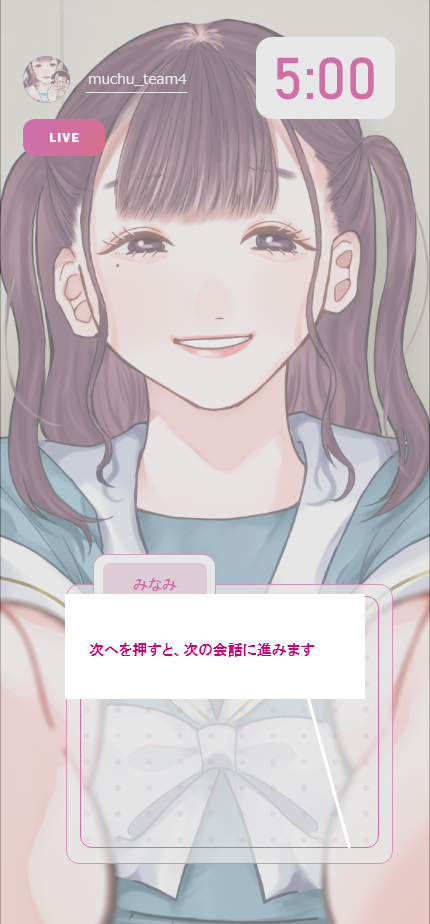
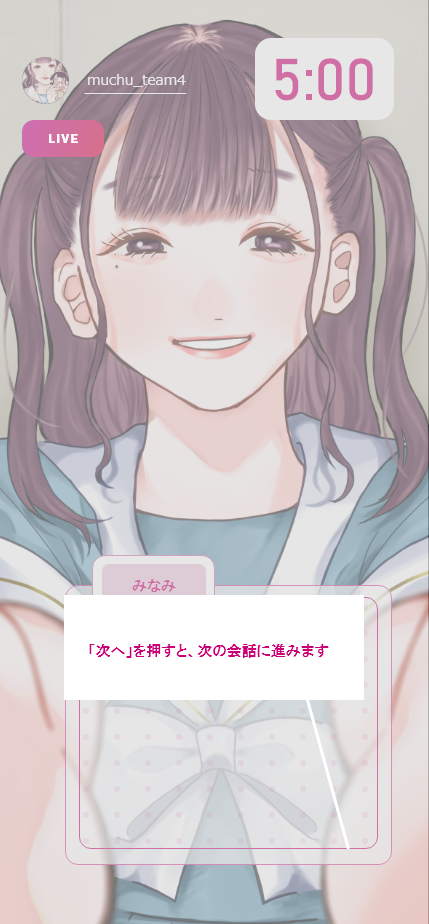
ルール説明など変更

diff --git a/quiz2.css b/quiz2.css
@@ -1,5 +1,5 @@
 body{
-    background-image: url('img/quiz2.png');
+    background-image: url('img/game2.png');
     background-repeat: no-repeat;
     max-width: 100%;
     height: auto;
@@ -24,8 +24,8 @@ html {
 
 p#default{
     position:relative;
-		top: -23px;
-		left:278px;
+		top: 0px;
+		left:270px;
     color:#CC0076;
     font-size: 50px;
     font-family: Arial;
@@ -34,7 +34,7 @@ p#default{
 
 div#quest{
     position:relative;
-		top: 320px;
+		top: 150px;
 		left:50px;
     font-size: 14px;
     width:310px;
@@ -43,27 +43,25 @@ div#quest{
 
 div#groupname{
     position:relative;
-		top: 90px;
+		top: 275px;
 		left:50px;
     font-size: 14px;
     width:310px;
-    height: 20px;
-    background-color: rgba(232, 43, 179, 0.6);
-    color: #ffffff;
+    height: 90px;
     font-weight: bolder;
 }
 
 div#groupname2{
     position:relative;
-		top: 90px;
+		top: 205px;
+		left:50px;
 		left:50px;
     font-size: 14px;
     width:310px;
-    height: 40px;
-    background-color: rgba(232, 43, 179, 0.6);
-    color: #ffffff;
+    height: 90px;
     font-weight: bolder;
 }
+
 .parent {
   /*親要素はrelativeに*/
   position: relative;
@@ -126,7 +124,7 @@ div#sentaku4{
 }
 .example1 label{
     position:absolute;
-    top: 270px;
+    top: 150px;
 		left:18px;
     display: block;
     background: #eac3dc;
@@ -154,7 +152,7 @@ div#sentaku4{
 }
 .example2 label{
     position:absolute;
-    top: 270px;
+    top: 150px;
 		left:205px;
     display: block;
     background: #eac3dc;
@@ -182,7 +180,7 @@ div#sentaku4{
 }
 .example3 label{
     position:absolute;
-    top: 375px;
+    top: 275px;
 		left:18px;
     display: block;
     background: #eac3dc;
@@ -210,7 +208,7 @@ div#sentaku4{
 }
 .example4 label{
     position:absolute;
-		top: 375px;
+		top: 275px;
 		left:205px;
     display: block;
     background: #eac3dc;
@@ -239,7 +237,7 @@ div#sentaku4{
 #nextbutton{
   position:absolute;
   text-align: center;
-  top: 500px;
+  top: 400px;
   left: 295px;
   font-size: 15px;
   width: 120px;
@@ -256,7 +254,7 @@ div#sentaku4{
 #kekka{
   position:absolute;
   text-align: center;
-  top: 500px;
+  top: 400px;
   left: 150px;
   font-size: 15px;
   width: 120px;

diff --git a/quiz2.js b/quiz2.js
@@ -122,10 +122,10 @@
     ];
 
     const groupthema = [
-      ["第1問!","team1のテーマは、女性が正規雇用で継続して働ける社会だよ"],//1班
-      ["第2問!","team2テーマは、セックスとジェンダーだよ"],//2班
-      ["第3問!","team3のテーマは、コロナによる入学式/卒業式の変化だよ"],//3班
-      ["第4問!","team4のテーマは、女性アイドルにおける人数と変遷だよ"],//4班
+      ["第1問!","テーマ「女性が正規雇用で継続して働ける社会」"],//1班
+      ["第2問!","テーマ「セックスとジェンダー」"],//2班
+      ["第3問!","テーマ「コロナによる入学式/卒業式の変化」"],//3班
+      ["第4問!","テーマ「女性アイドルにおける人数と変遷」"],//4班
       ["",""],//ダミー
     ];
 

diff --git a/quiz2.html b/quiz2.html
@@ -19,15 +19,15 @@
      
         
 
-      
+
+      <div id="groupname"></div>
+      <div id="groupname2"></div>
       <div id="quest"></div>
       <!-- <div id="sentaku1"></div>
       <div id="sentaku2"></div>
       <div id="sentaku3"></div>
       <div id="sentaku4"></div> -->
 
-      <div id="groupname"></div>
-      <div id="groupname2"></div>
 
 
       <p>

diff --git a/start.html b/start.html
@@ -8,7 +8,7 @@
   </head>
   <body>
     <nav>
-        <a href="quiz2.html" class="btn">スタート</a>  
+        <a href="quiz2.html" class="btn">START</a>  
   </nav>
  
   </body>
